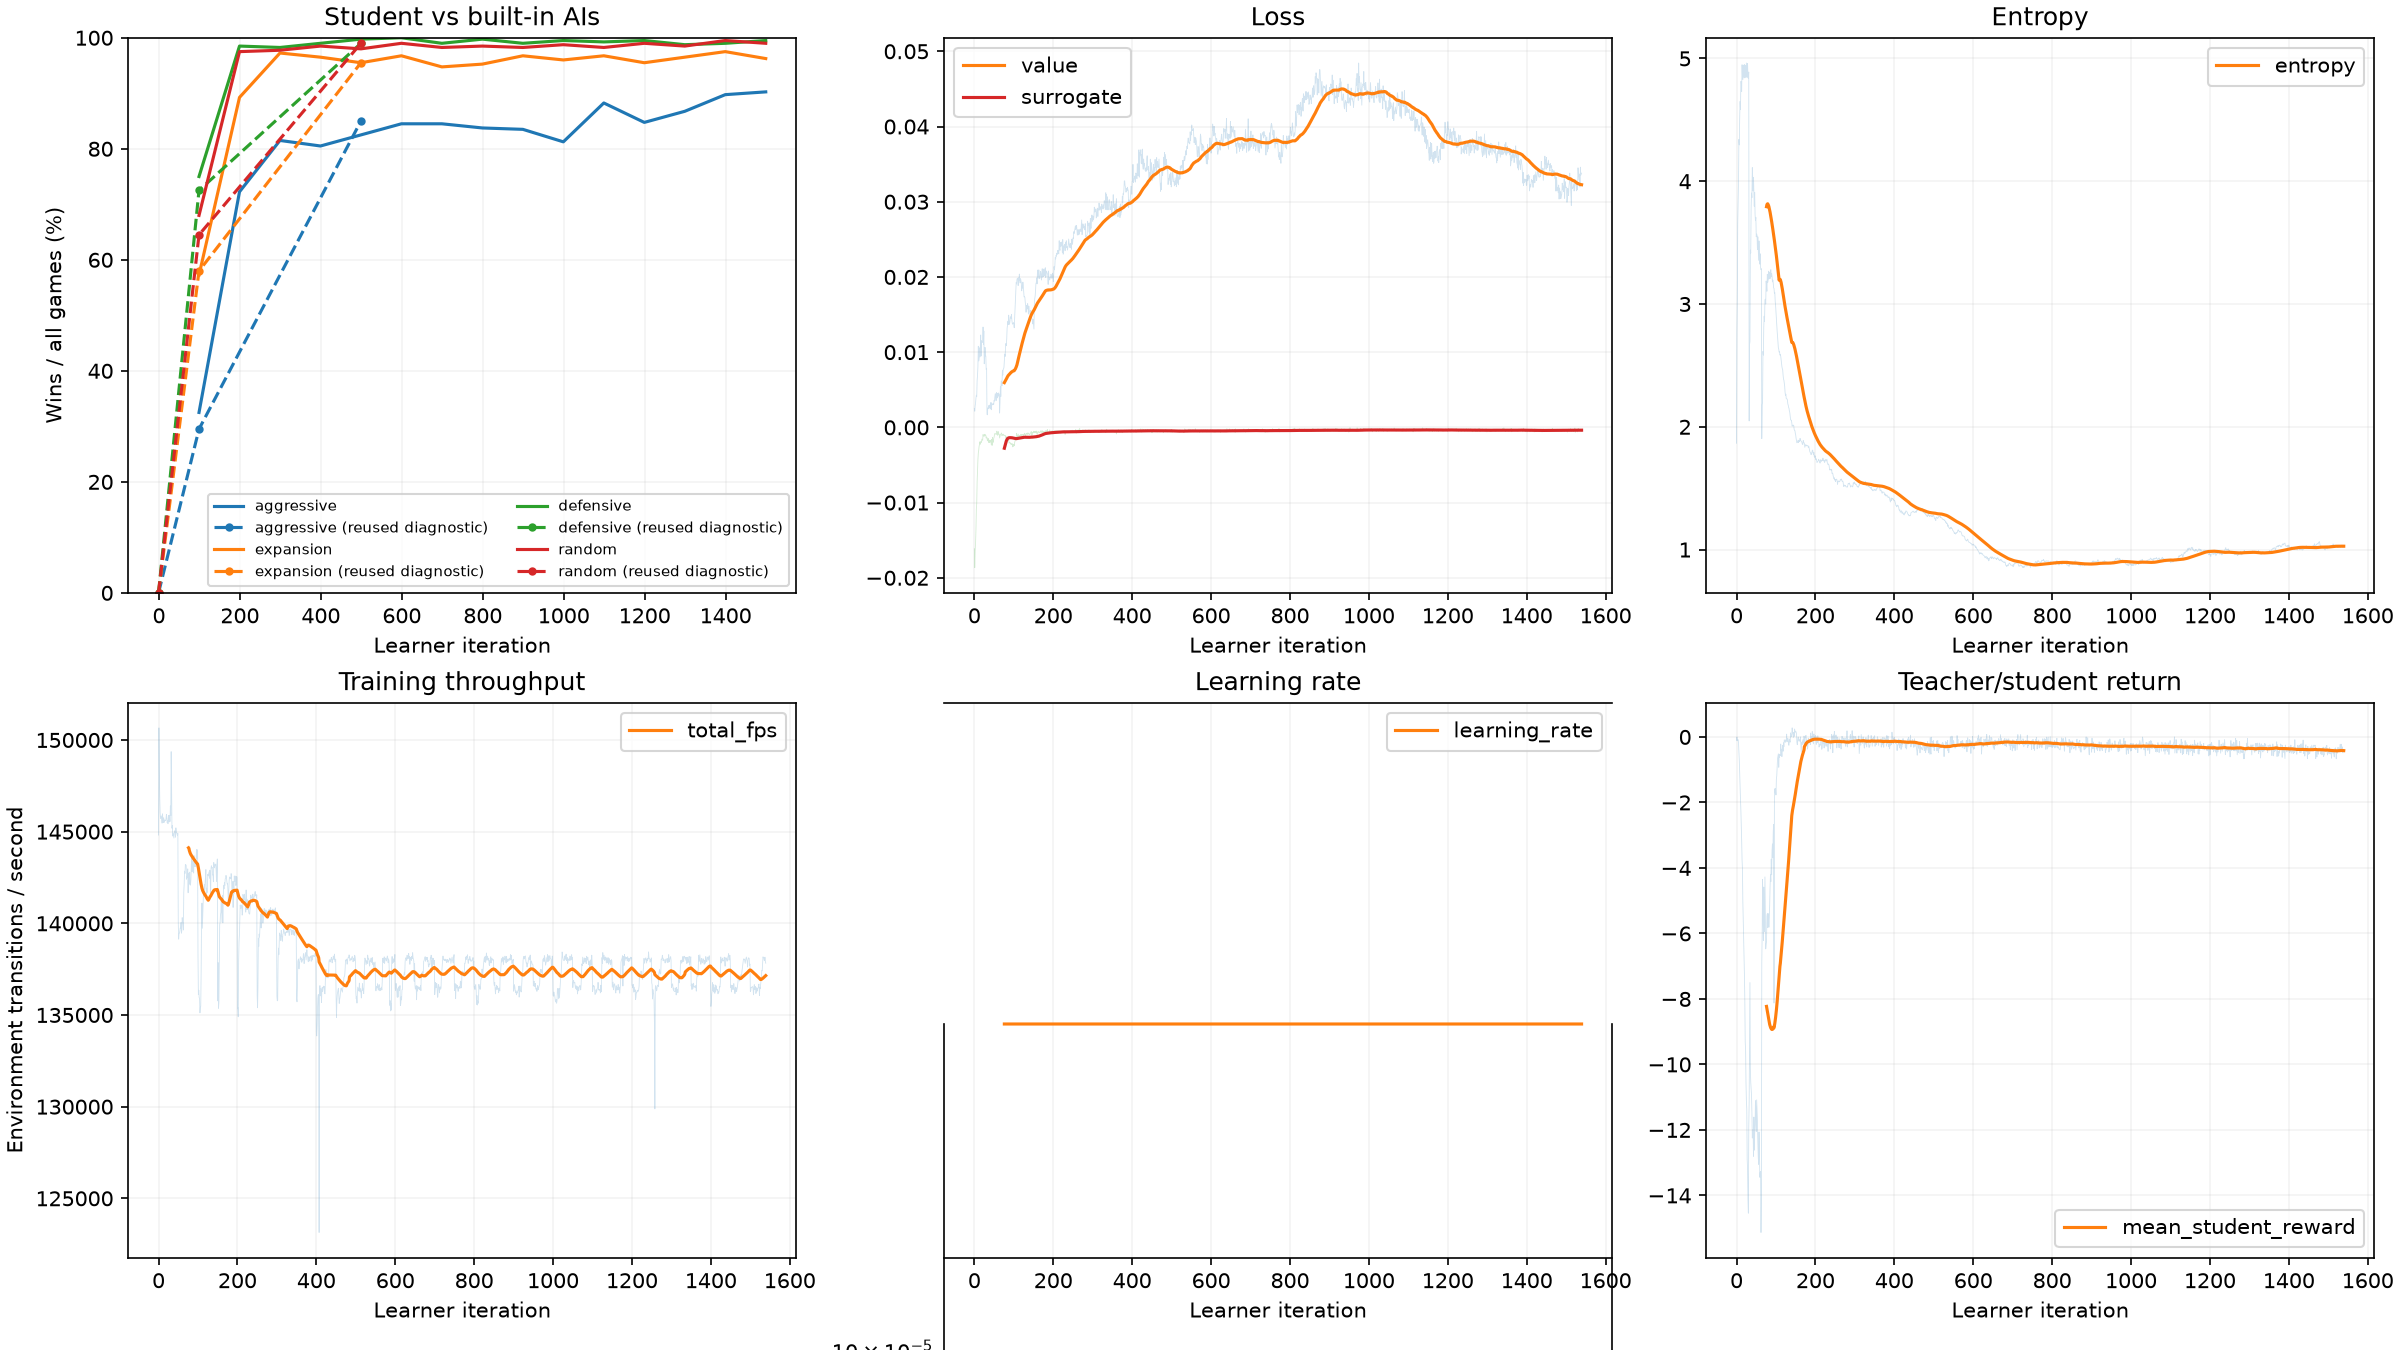
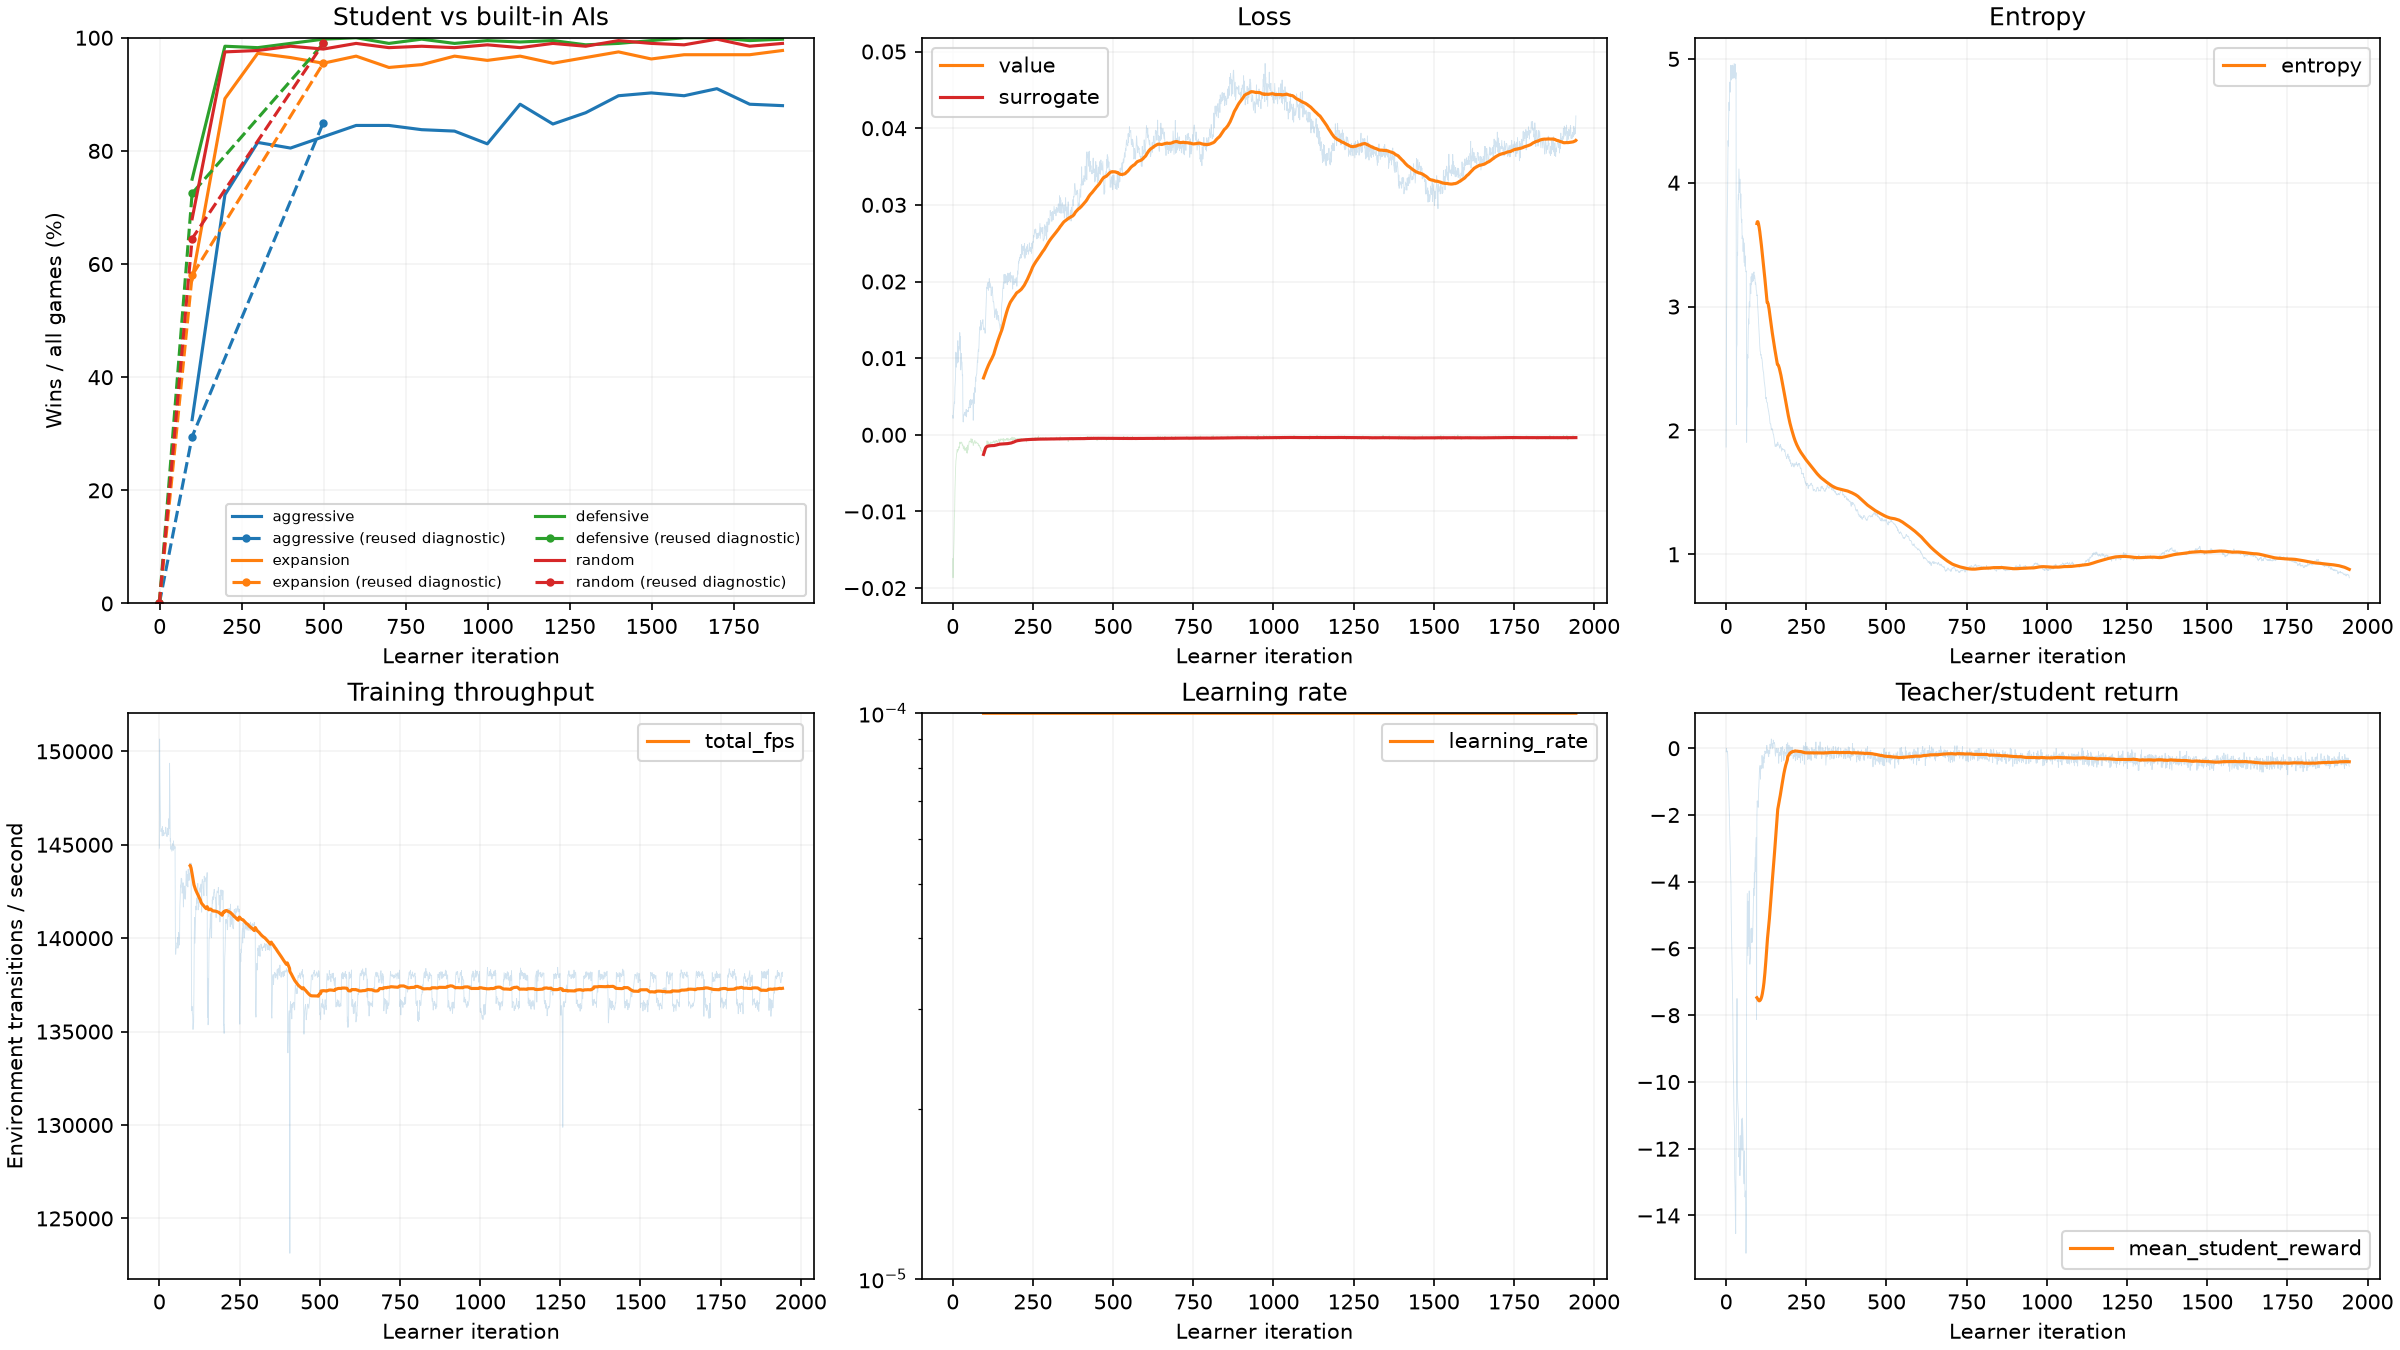
docs(rl): record v17 near-target model and native failure replay

diff --git a/doc/rl_train_log.md b/doc/rl_train_log.md
@@ -831,7 +831,7 @@ v16最终交付追加核对 `outputs/rl_iteration_audit/pure_scratch_phase/v16_f
 
[1 lines of base64/hex data omitted]
 
-目前完整selector评测如下，1499为当前最佳，训练仍在运行。599后699–999四点未提升，1099出现88.25%新峰；1199回落，1299/1399恢复至86.75/89.75%，1499首次在本轮selector达到90.25%。Defensive/Random仍有败局，完整目标未达成；继续同一进程，没有请求STOP或结算版本。
+目前完整selector评测如下，1699为当前最佳，训练仍在运行。晚期1099/1399/1499/1699刷新aggressive峰值到88.25/89.75/90.25/91%；1699 Random仍有一败，未同时达成完整目标。随后1799/1899回落至88.25/88%，峰值后只有两个完整观察点，继续观察；尚未请求STOP或结算版本。
 
 | 更新 | aggressive | expansion | defensive | random |
 | ---: | ---: | ---: | ---: | ---: |
@@ -850,6 +850,10 @@ v16最终交付追加核对 `outputs/rl_iteration_audit/pure_scratch_phase/v16_f
 | 1299 | 86.75% | 96.5% | 98.75% | 98.5% |
 | 1399 | 89.75% | 97.5% | 99% | 99.5% |
 | 1499 | 90.25% | 96.25% | 99.5% | 99% |
+| 1599 | 89.75% | 97% | 100% | 98.75% |
+| 1699 | 91% | 97% | 100% | 99.75% |
+| 1799 | 88.25% | 97% | 99.5% | 98.5% |
+| 1899 | 88% | 97.75% | 99.75% | 99% |
 
 ![v17中期：实际选模点及新初始/99/499开发诊断，训练仍在运行](rl_train_figures/v17.png)
 
@@ -870,3 +874,7 @@ v16最终交付追加核对 `outputs/rl_iteration_audit/pure_scratch_phase/v16_f
[1 lines of base64/hex data omitted]
 
[1 lines of base64/hex data omitted]
+
+1499剩余60败局的只读对照见 `v17_remaining_losses_at1499.{json,md}`；root逐项复核1099/1399/1499有序1600身份及1399→1499重合：Agg持续16/新增23/解决25，Exp1/14/9，Def1/1/3，Random1/3/1。Agg三点一直败8局，另外三AI分别1/0/0；少数败局随模型变化，并非可直接认定不可学的固定地图。1499失败条件下四AI平均时长296.41/213.53/198.50/179.50tick、WAIT11.25/15.45/17.13/18.94%、反向3.98/6.77/11.34/4.87%，zeroMOVE均0。这些是聚合行为，非空间/NN因果，未用夺将后stats推临死经济。随后1599四率89.75/97/100/98.75%（Exp1draw计分母），Def全胜但其余门槛未同时达成；继续训练，best仍1499，最终诊断与版本计数待关闭后。
+
[1 lines of base64/hex data omitted]
